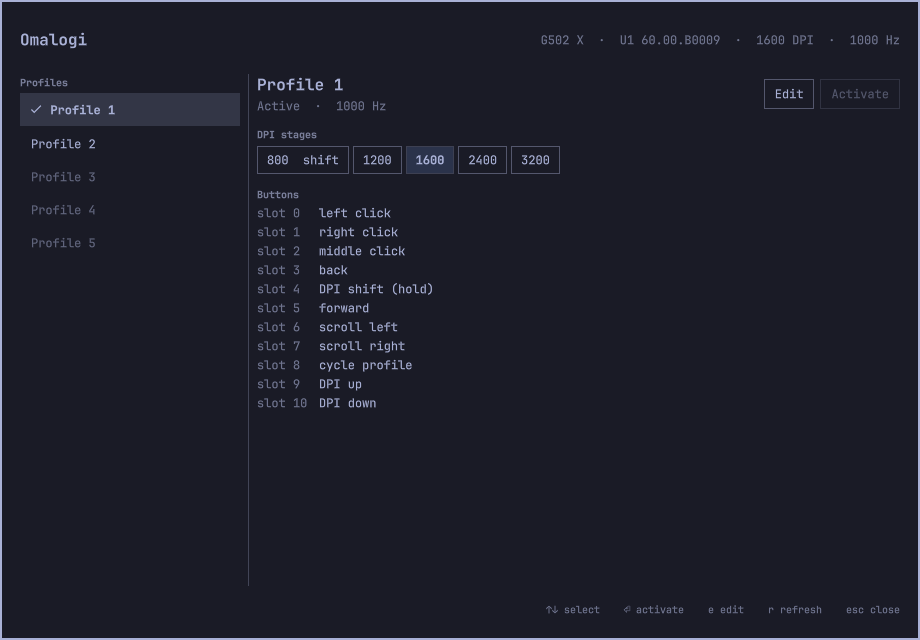
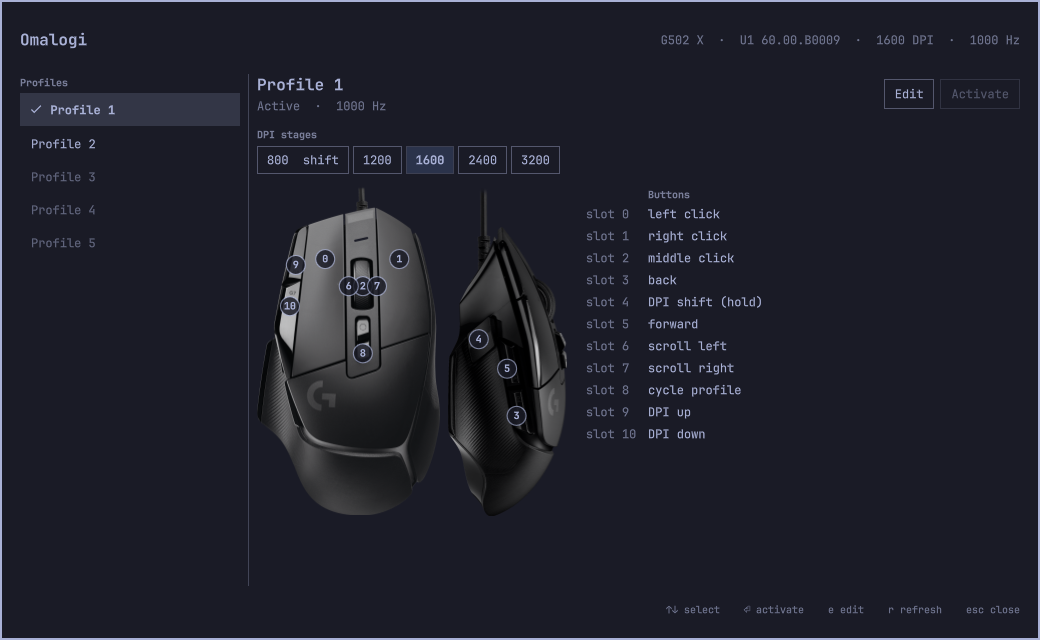
feat: show the mouse with a badge on each button in the overlay
The profile view draws the front and side renders from omalogi picture with a
numbered badge on each button, next to one table of button and G-Shift
bindings. Hovering a badge or a row highlights both. Without a picture the table
is shown alone. The picture command runs outside the device-command queue.

omalogi setup now says to restart the shell after updating an existing plugin:
a running omarchy-shell keeps a bar-widget plugin's overlay even after a rescan,
checked with a probe edit on the installed copy.

diff --git a/plugin/Omalogi.qml b/plugin/Omalogi.qml
@@ -39,6 +39,10 @@ Item {
   property bool confirmOpen: false
   // What the open payload asked for, applied once profiles have loaded.
   property var pendingOpen: null
+  // `omalogi picture`: the mouse's picture with button positions, or null.
+  property var picture: null
+  // The slot under the pointer, in the picture or the binding table, or -1.
+  property int hoveredSlot: -1
 
   readonly property var profiles: root.onboard ? root.onboard.profiles : []
   readonly property var selected: root.profiles.length > 0
@@ -55,7 +59,8 @@ Item {
   readonly property int buttonCount: root.onboard ? root.onboard.description.button_count : 0
   readonly property string editTable: root.editTab === "gshift" ? "gshift" : "buttons"
 
-  readonly property int cardWidth: Math.min(Style.space(920), panel.width - Style.gapsOut * 2)
+  readonly property int cardWidth: Math.min(Style.space(1040), panel.width - Style.gapsOut * 2)
+  readonly property int pictureHeight: Style.space(330)
   readonly property int cardHeight: Math.min(Style.space(640), panel.height - Style.gapsOut * 2)
   readonly property int headerHeight: Math.max(Style.space(40), Style.font.heading + Style.spacing.controlPaddingY * 2)
   readonly property int listWidth: Style.space(220)
@@ -71,6 +76,7 @@ Item {
     root.pendingOpen = Model.openRequest(Model.parseJson(payloadJson))
     if (root.ready && !root.busy) root.applyOpenRequest()
     root.refresh()
+    if (root.picture === null && !pictureCommand.running) pictureCommand.start(["picture", "--json"])
     Qt.callLater(function() { keyCatcher.forceActiveFocus() })
   }
 
@@ -96,6 +102,11 @@ Item {
       root.startEditing()
       if (root.editing) root.editTab = request.tab
     }
+  }
+
+  function hoverSlot(slot, hovered) {
+    if (hovered) root.hoveredSlot = slot
+    else if (root.hoveredSlot === slot) root.hoveredSlot = -1
   }
 
   function refresh() {
@@ -251,6 +262,15 @@ Item {
     }
   }
 
+  // The picture command reads sysfs and the cache, never the device, so it runs alongside
+  // device commands. Without a picture the overlay shows the binding table alone.
+  OmalogiCommand {
+    id: pictureCommand
+    onFinished: function(exitCode, stdout, stderr) {
+      root.picture = exitCode === 0 ? Model.parseJson(stdout) : null
+    }
+  }
+
   OmalogiCommand {
     id: previewCommand
     onFinished: function(exitCode, stdout, stderr) {
@@ -310,40 +330,87 @@ Item {
     font.pixelSize: Style.font.caption
   }
 
-  component BindingList: Column {
-    id: list
-    property string title: ""
-    property var entries: []
+  component BindingLabel: Text {
+    property var label: null
+    textFormat: Text.PlainText
+    text: label === null ? "—" : label
+    color: Color.menu.text
+    opacity: label === null ? 0.4 : 1
+    elide: Text.ElideRight
+    font.family: Style.font.menuFamily
+    font.pixelSize: Style.font.body
+  }
 
-    spacing: Style.spacing.xs
+  // Bindings by slot, with the G-Shift column when the profile binds any G-Shift button.
+  component BindingTable: Column {
+    id: table
+    property var rows: []
+    property bool showGShift: false
+    readonly property int columns: showGShift ? 2 : 1
+    readonly property int labelWidth: (width - root.slotColumnWidth - Style.spacing.md * columns) / columns
 
-    PanelSectionHeader {
-      text: list.title
-      foreground: Color.menu.text
+    spacing: Style.spacing.xxs
+
+    Row {
+      spacing: Style.spacing.md
+
+      Item { width: root.slotColumnWidth; height: 1 }
+
+      PanelSectionHeader {
+        width: table.labelWidth
+        text: "Buttons"
+        foreground: Color.menu.text
+      }
+
+      PanelSectionHeader {
+        width: table.labelWidth
+        visible: table.showGShift
+        text: "G-Shift"
+        foreground: Color.menu.text
+      }
     }
 
     Repeater {
-      model: list.entries
+      model: table.rows
 
-      delegate: Row {
+      delegate: Rectangle {
+        id: row
         required property var modelData
-        width: list.width
-        spacing: Style.spacing.md
+        readonly property bool hot: root.hoveredSlot === modelData.slot
+        width: table.width
+        height: rowContent.implicitHeight + Style.spacing.xxs * 2
+        radius: Style.cornerRadius
+        color: hot ? Util.alpha(Color.menu.text, 0.08) : "transparent"
 
-        Caption {
-          width: root.slotColumnWidth
-          text: "slot " + modelData.slot
-          font.pixelSize: Style.font.body
+        MouseArea {
+          anchors.fill: parent
+          hoverEnabled: true
+          onContainsMouseChanged: root.hoverSlot(row.modelData.slot, containsMouse)
         }
 
-        Text {
-          width: parent.width - root.slotColumnWidth - parent.spacing
-          textFormat: Text.PlainText
-          text: modelData.label
-          color: Color.menu.text
-          elide: Text.ElideRight
-          font.family: Style.font.menuFamily
-          font.pixelSize: Style.font.body
+        Row {
+          id: rowContent
+          anchors.verticalCenter: parent.verticalCenter
+          spacing: Style.spacing.md
+
+          Caption {
+            width: root.slotColumnWidth
+            text: "slot " + row.modelData.slot
+            color: row.hot ? Color.accent : Color.menu.text
+            opacity: row.hot ? 1 : 0.6
+            font.pixelSize: Style.font.body
+          }
+
+          BindingLabel {
+            width: table.labelWidth
+            label: row.modelData.button
+          }
+
+          BindingLabel {
+            width: table.labelWidth
+            visible: table.showGShift
+            label: row.modelData.gshift
+          }
         }
       }
     }
@@ -662,20 +729,76 @@ Item {
               }
 
               Row {
+                id: buttonsArea
+                readonly property var views: Model.pictureViews(root.picture)
                 width: parent.width
                 spacing: Style.spacing.huge
 
-                BindingList {
-                  width: (parent.width - parent.spacing) / 2
-                  title: "Buttons"
-                  entries: root.selected ? Model.boundSlots(root.selected.labels.buttons) : []
+                Row {
+                  id: pictures
+                  visible: buttonsArea.views.length > 0
+                  spacing: Style.spacing.lg
+
+                  Repeater {
+                    model: buttonsArea.views
+
+                    delegate: Item {
+                      id: view
+                      required property var modelData
+                      width: Model.viewWidth(modelData, root.pictureHeight)
+                      height: root.pictureHeight
+
+                      Image {
+                        anchors.fill: parent
+                        source: "file://" + view.modelData.image
+                        sourceSize.height: root.pictureHeight * 2
+                        fillMode: Image.PreserveAspectFit
+                        asynchronous: true
+                        smooth: true
+                        mipmap: true
+                      }
+
+                      Repeater {
+                        model: view.modelData.hotspots
+
+                        delegate: Rectangle {
+                          id: badge
+                          required property var modelData
+                          readonly property bool hot: root.hoveredSlot === modelData.slot
+                          width: Style.space(20)
+                          height: width
+                          radius: width / 2
+                          x: modelData.x * view.width - width / 2
+                          y: modelData.y * view.height - height / 2
+                          color: hot ? Color.accent : Util.alpha(Color.menu.background, 0.85)
+                          border.width: Math.max(1, Style.normalBorderWidth)
+                          border.color: hot ? Color.accent : Util.alpha(Color.menu.text, 0.7)
+
+                          Text {
+                            anchors.centerIn: parent
+                            textFormat: Text.PlainText
+                            text: String(badge.modelData.slot)
+                            color: badge.hot ? Color.menu.background : Color.menu.text
+                            font.family: Style.font.menuFamily
+                            font.pixelSize: Style.font.caption
+                            font.bold: true
+                          }
+
+                          MouseArea {
+                            anchors.fill: parent
+                            hoverEnabled: true
+                            onContainsMouseChanged: root.hoverSlot(badge.modelData.slot, containsMouse)
+                          }
+                        }
+                      }
+                    }
+                  }
                 }
 
-                BindingList {
-                  width: (parent.width - parent.spacing) / 2
-                  title: "G-Shift"
-                  entries: root.selected ? Model.boundSlots(root.selected.labels.gshift_buttons) : []
-                  visible: entries.length > 0
+                BindingTable {
+                  width: parent.width - (pictures.visible ? pictures.width + parent.spacing : 0)
+                  rows: root.selected ? Model.bindingRows(root.selected.labels) : []
+                  showGShift: root.selected !== null && Model.boundSlots(root.selected.labels.gshift_buttons).length > 0
                 }
               }
             }

diff --git a/plugin/tests/model.test.js b/plugin/tests/model.test.js
@@ -285,6 +285,35 @@ test("action picker groups key combos and keeps unknown current bindings", () =>
   })
 })
 
+test("pictureViews keeps only usable views", () => {
+  assert.deepEqual(plain(Model.pictureViews(null)), [])
+  assert.deepEqual(plain(Model.pictureViews({})), [])
+  const picture = {
+    views: [
+      { name: "front", image: "/cache/front.png", width: 1556, height: 2800, hotspots: [] },
+      { name: "no-path", image: 3, width: 10, height: 10, hotspots: [] },
+      { name: "flat", image: "/cache/flat.png", width: 10, height: 0, hotspots: [] }
+    ]
+  }
+  assert.deepEqual(
+    plain(Model.pictureViews(picture)).map((view) => view.name),
+    ["front"]
+  )
+  assert.equal(Model.viewWidth(picture.views[0], 280), 156)
+})
+
+test("bindingRows pairs button and G-Shift labels by slot", () => {
+  assert.deepEqual(plain(Model.bindingRows(null)), [])
+  assert.deepEqual(
+    plain(Model.bindingRows({ buttons: ["left click", null, "back", null], gshift_buttons: [null, "mute"] })),
+    [
+      { slot: 0, button: "left click", gshift: null },
+      { slot: 1, button: null, gshift: "mute" },
+      { slot: 2, button: "back", gshift: null }
+    ]
+  )
+})
+
 test("boundSlots keeps slot numbers of bound buttons", () => {
   const slots = JSON.parse(JSON.stringify(Model.boundSlots(["left click", null, "DPI up"])))
   assert.deepEqual(slots, [

diff --git a/plugin/Model.js b/plugin/Model.js
@@ -294,6 +294,32 @@ function hasChanges(draft, original) {
   return editArgs(draft, original, false).length > 3
 }
 
+// Picture views from `omalogi picture`, or [] when there is no usable picture.
+function pictureViews(picture) {
+  if (!picture || !Array.isArray(picture.views)) return []
+  return picture.views.filter(function(view) {
+    return view && typeof view.image === "string" && view.width > 0 && view.height > 0
+  })
+}
+
+// Width of a view drawn at `height`, keeping its aspect ratio.
+function viewWidth(view, height) {
+  return Math.round((height * view.width) / view.height)
+}
+
+// One row per slot bound in either table: {slot, button, gshift}, labels or null.
+function bindingRows(labels) {
+  var buttons = (labels && labels.buttons) || []
+  var gshift = (labels && labels.gshift_buttons) || []
+  var rows = []
+  for (var slot = 0; slot < Math.max(buttons.length, gshift.length); slot++) {
+    var button = buttons[slot] === undefined ? null : buttons[slot]
+    var shifted = gshift[slot] === undefined ? null : gshift[slot]
+    if (button !== null || shifted !== null) rows.push({ slot: slot, button: button, gshift: shifted })
+  }
+  return rows
+}
+
 // Bound slots as {slot, label}. omalogi sends null for unbound slots.
 function boundSlots(labels) {
   var slots = []

diff --git a/src/setup.rs b/src/setup.rs
@@ -267,14 +267,14 @@ fn plugin_step(report: &mut Report, config_home: &Path, dry_run: bool) -> bool {
         return true;
     }
     report.push("plugin", Status::Done, detail);
-    // A shell that already loaded the plugin caches its directory listing, so a new
-    // file only loads after a restart; changed files load on a rescan.
-    let added = files.iter().any(|(_, state)| *state == FileState::Created);
-    if existed && added {
+    // A running shell keeps the overlay it already loaded, even after a rescan: Omarchy
+    // opens a bar-widget plugin's overlay through the widget, which a rescan does not
+    // rebuild. A first install only needs the rescan to be discovered.
+    if existed {
         report.push(
             "shell",
             Status::Warning,
-            "new plugin files: run `omarchy restart shell` to load them",
+            "run `omarchy restart shell` to load the new version",
         );
     } else if let Err(reason) = run("omarchy-shell", &["-q", "shell", "rescanPlugins"]) {
         report.push("shell", Status::Warning, reason);

diff --git a/README.md b/README.md
@@ -130,6 +130,14 @@ omarchy-shell shell toggle io.github.elberacasa.omalogi '{}'
 `↑`/`↓` or `j`/`k` select a profile, `Enter` activates it, `e` edits it, `r` refreshes,
 `Esc` closes.
 
+The profile view shows your mouse with a numbered badge on each button, matching the slot
+numbers in the table; hover either to find the other. Omalogi does not ship these
+pictures: the first time, `omalogi picture` downloads your model's render and button
+positions (about 9 MB for the G502 X) from `assets.openlogi.org`, the asset host OpenLogi
+uses, checks them against the host's checksums and caches them in
+`~/.cache/omalogi/pictures`. After that nothing is downloaded unless you run
+`omalogi picture --refresh`. Without a picture the overlay shows the table alone.
+
 The editor has tabs for DPI and report rate, buttons, and G-Shift buttons. **Preview**
 runs the same `--dry-run` as the CLI and shows the exact change; **Save to mouse** only
 unlocks after a successful preview of the current edit, asks for confirmation, then does

diff --git a/CHANGELOG.md b/CHANGELOG.md
@@ -26,6 +26,9 @@ All notable changes are listed here. The project follows
 - udev rule granting the active session access to the G502 X's HID++ interface only.
 - systemd user unit for the daemon.
 - Arch Linux PKGBUILD (`packaging/aur/omalogi`).
+- `omalogi picture` downloads the mouse's render and button positions once from
+  assets.openlogi.org, verified by checksum and cached; the overlay shows the render
+  with a badge on each button, linked to the binding table.
 
 ### Supported devices
 
